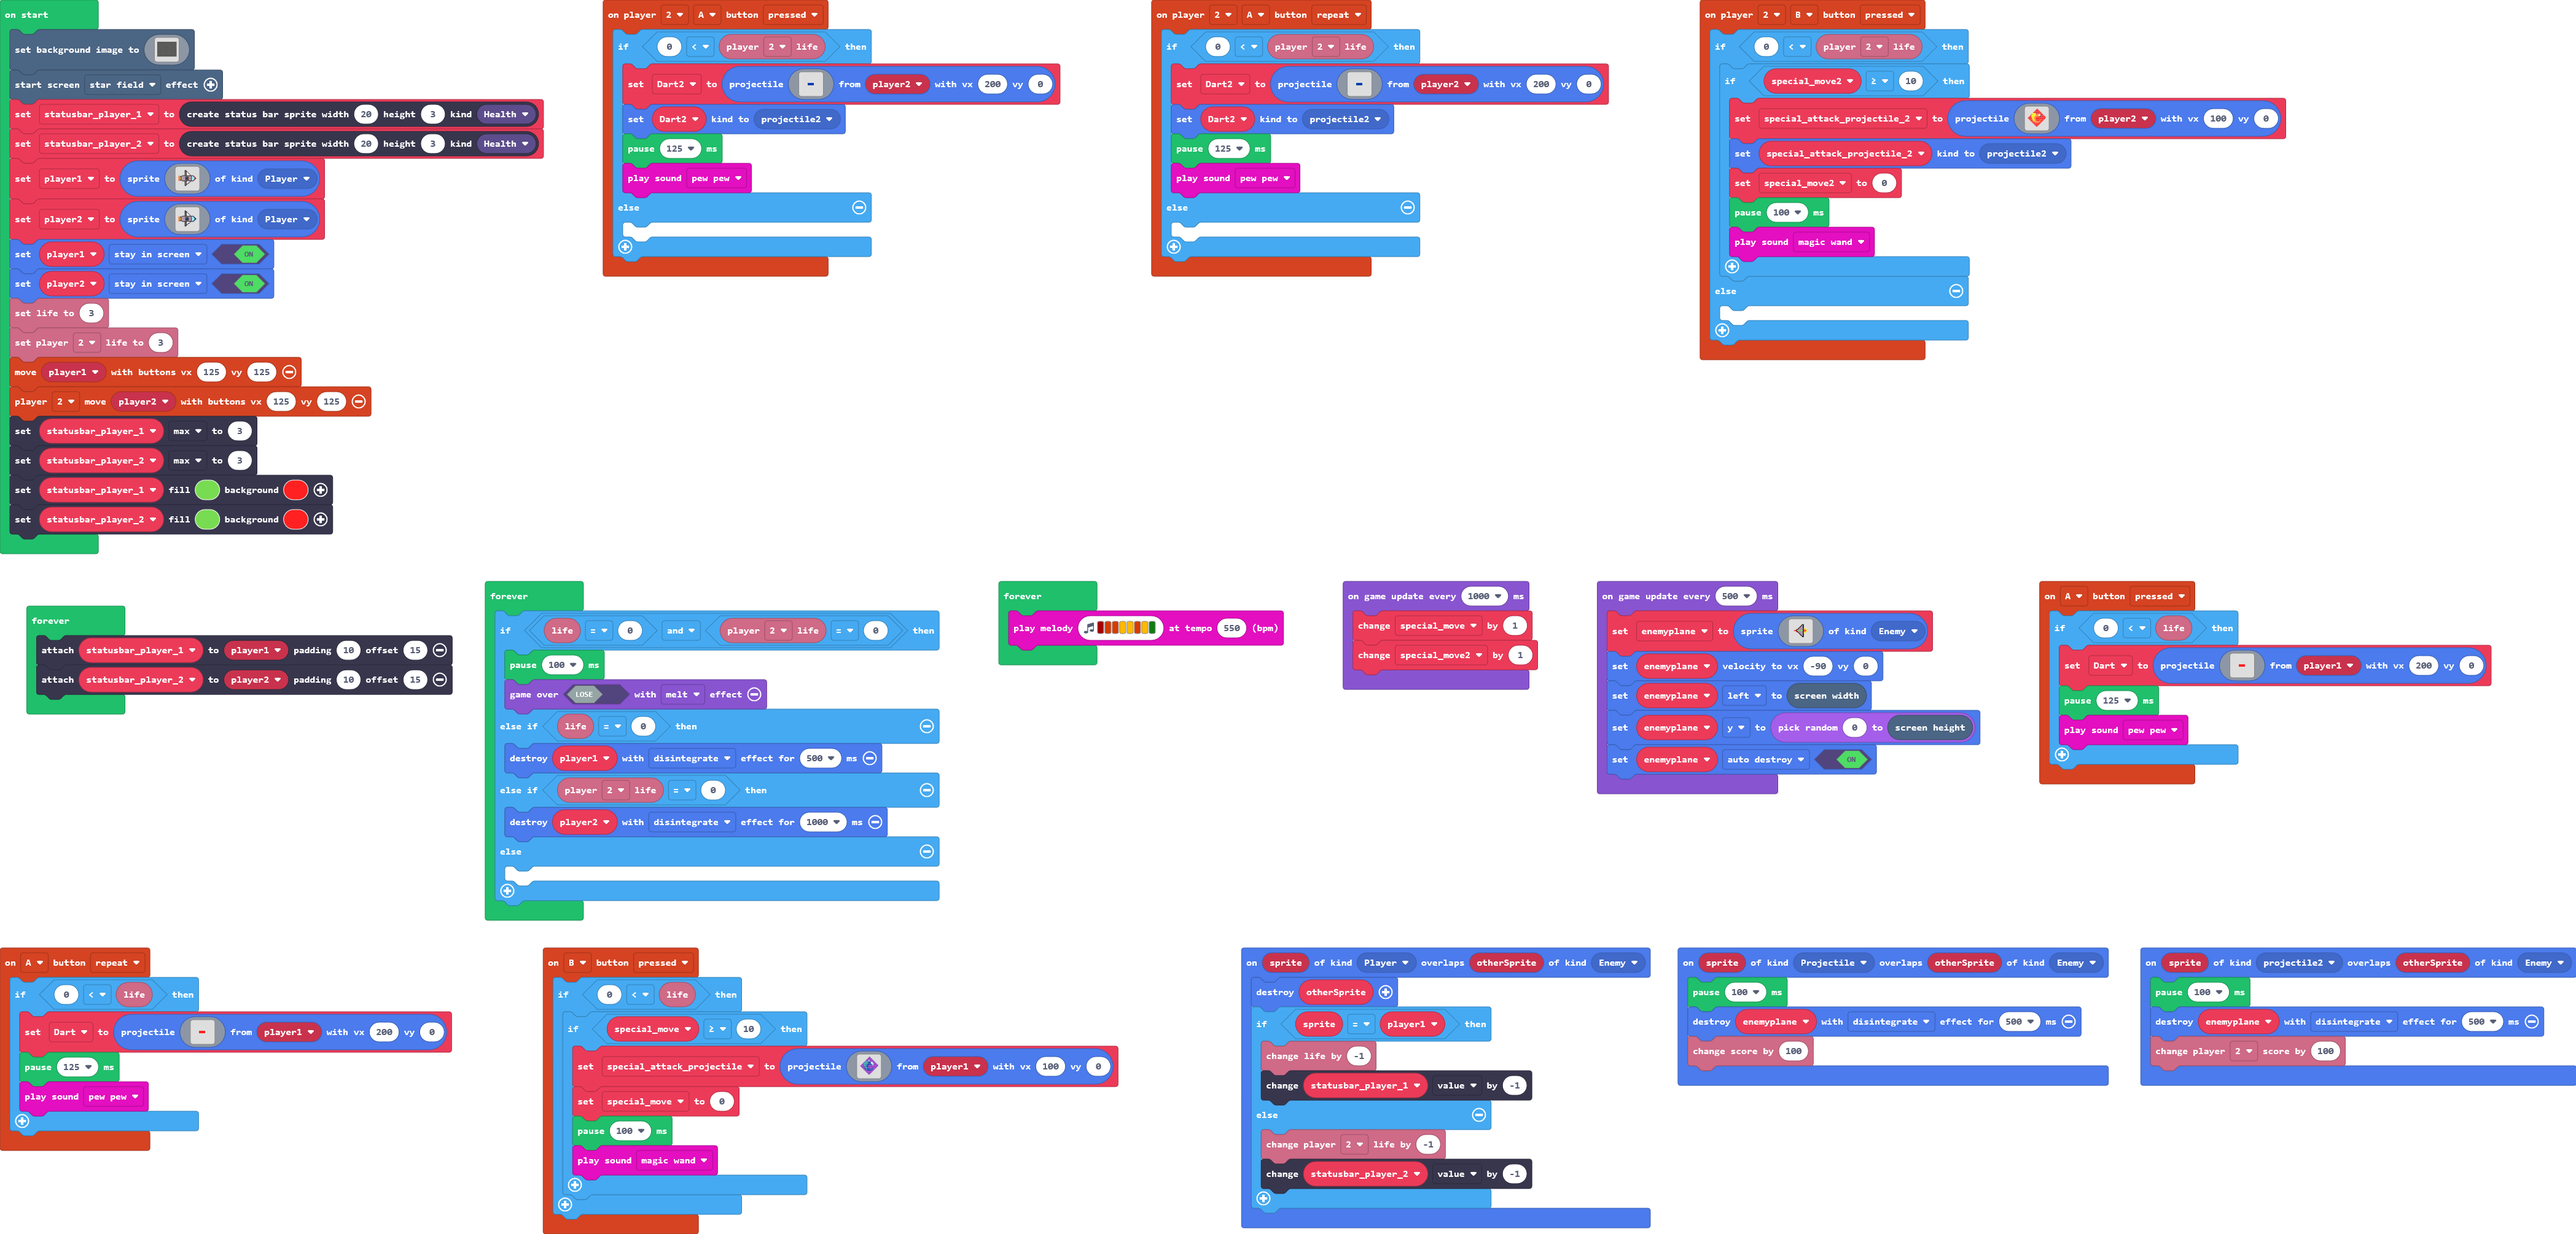
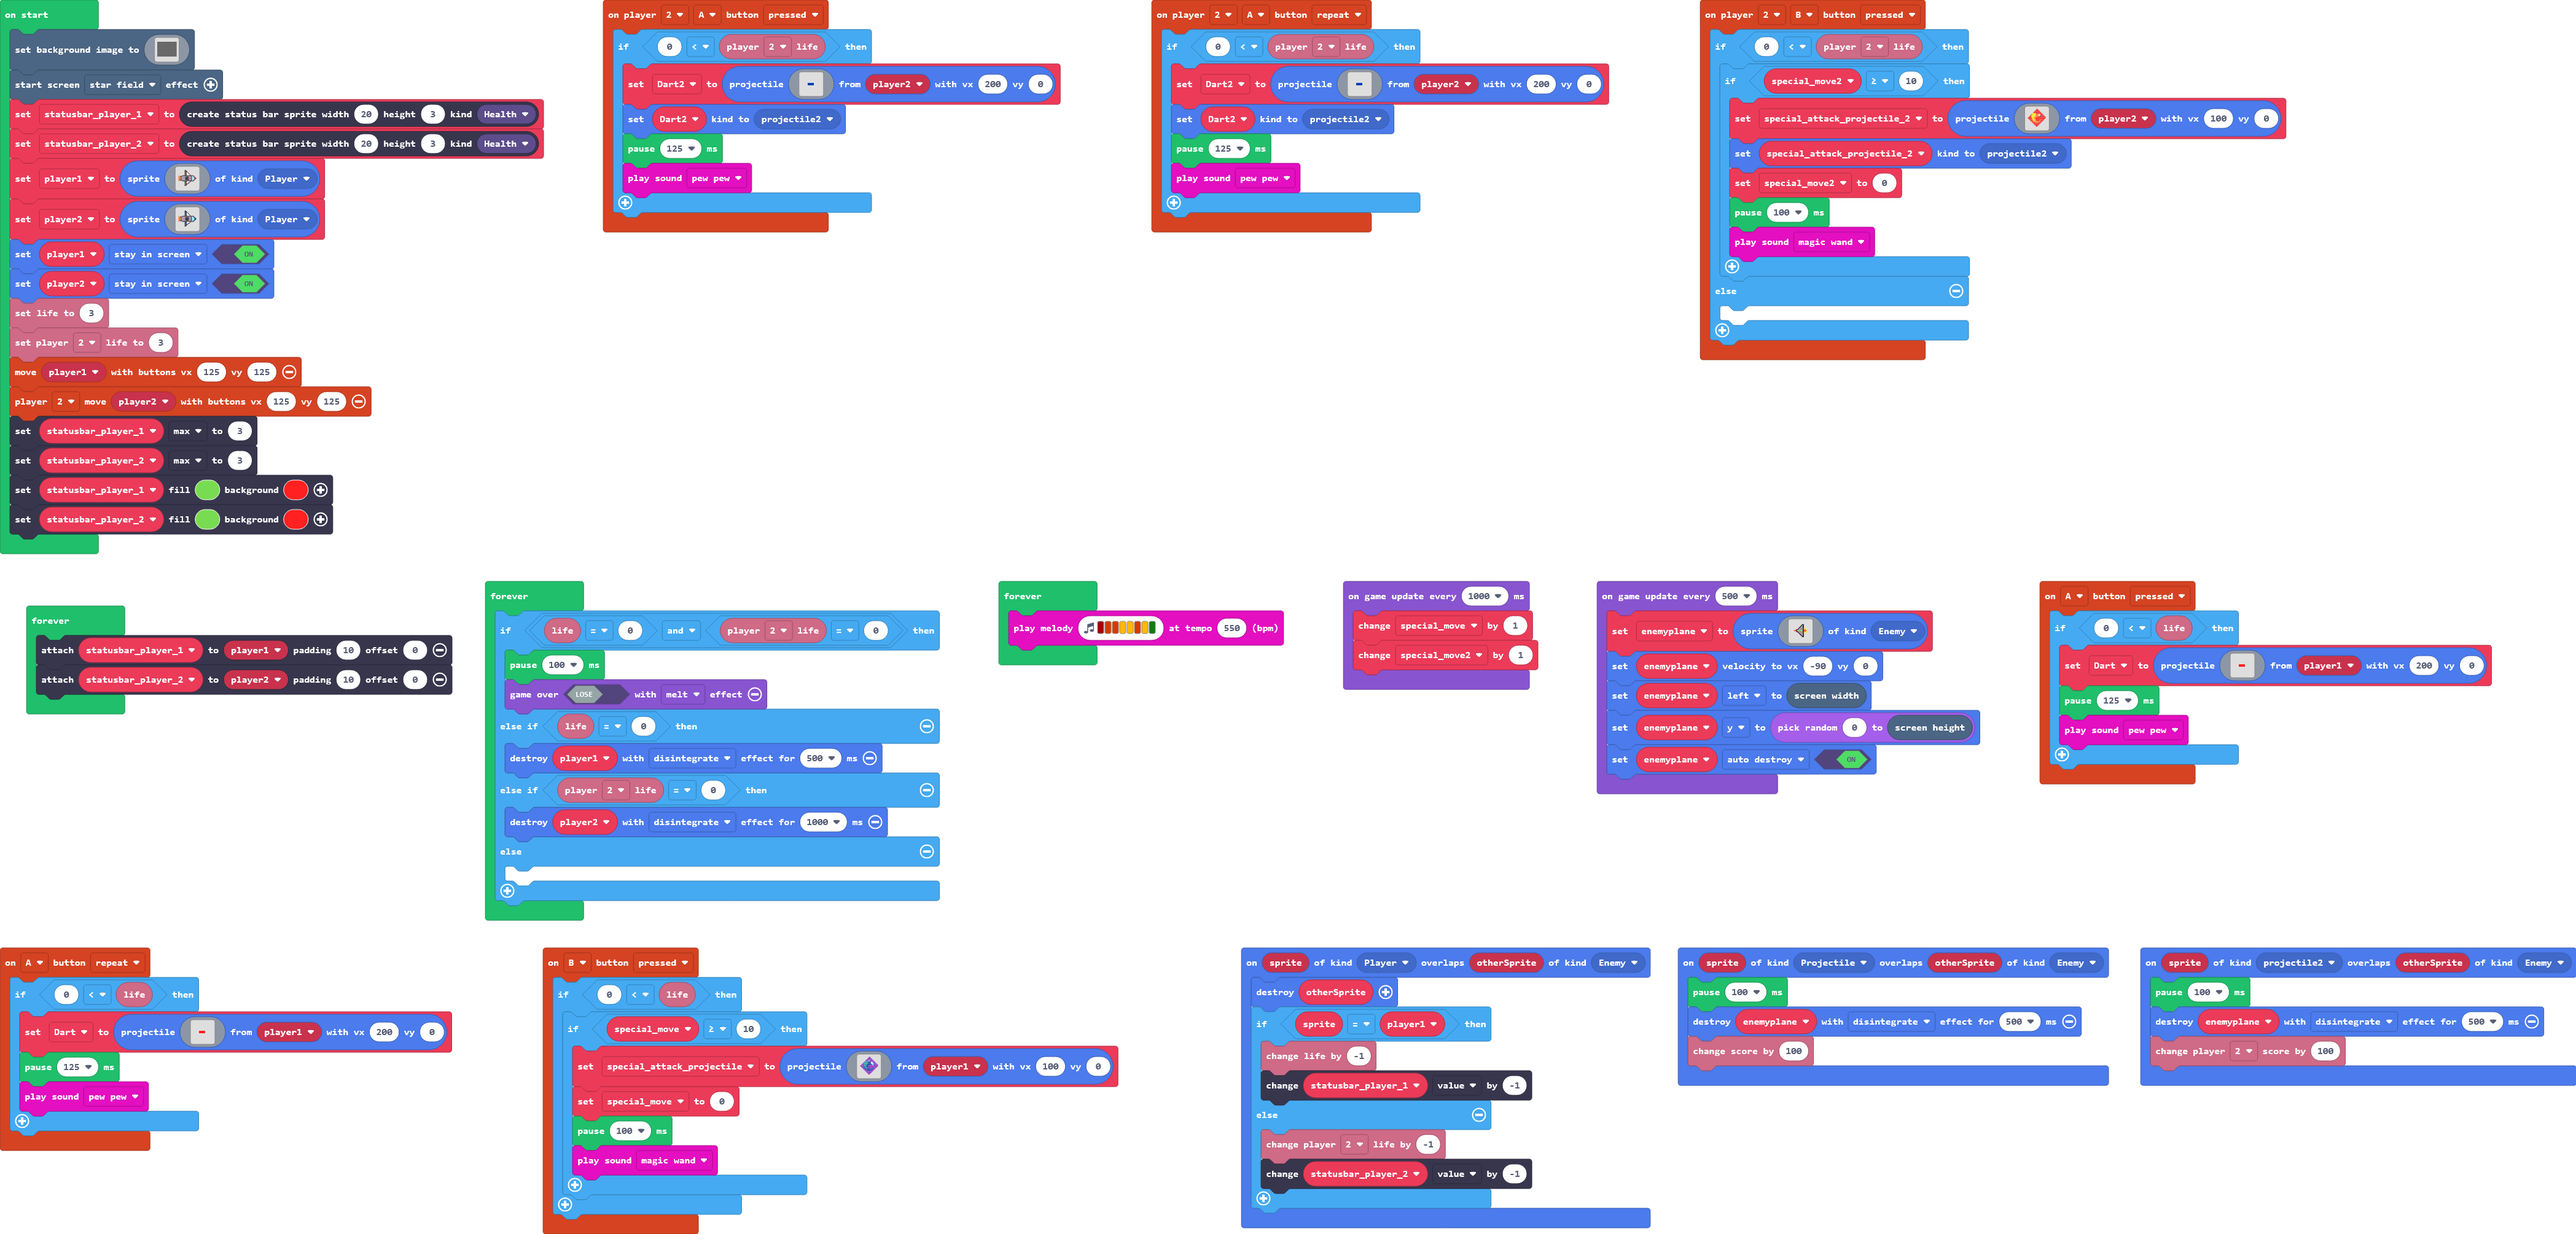
changed status bar's position

Changed region(s): [[0.4373, 0.1542, 0.5622, 0.2468], [0.2186, 0.1542, 0.3436, 0.2468]]

diff --git a/main.ts b/main.ts
@@ -25,8 +25,6 @@ controller.player2.onButtonEvent(ControllerButton.A, ControllerButtonEvent.Repea
         Dart2.setKind(SpriteKind.projectile2)
         pause(125)
         music.pewPew.play()
-    } else {
-    	
     }
 })
 controller.player2.onButtonEvent(ControllerButton.B, ControllerButtonEvent.Pressed, function () {
@@ -145,8 +143,6 @@ controller.player2.onButtonEvent(ControllerButton.A, ControllerButtonEvent.Press
         Dart2.setKind(SpriteKind.projectile2)
         pause(125)
         music.pewPew.play()
-    } else {
-    	
     }
 })
 sprites.onOverlap(SpriteKind.projectile2, SpriteKind.Enemy, function (sprite, otherSprite) {
@@ -450,8 +446,8 @@ forever(function () {
     }
 })
 forever(function () {
-    statusbar_player_1.attachToSprite(player1, 10, 15)
-    statusbar_player_2.attachToSprite(player2, 10, 15)
+    statusbar_player_1.attachToSprite(player1, 10, 0)
+    statusbar_player_2.attachToSprite(player2, 10, 0)
 })
 forever(function () {
     music.playMelody("C5 B B A A B A G ", 550)
